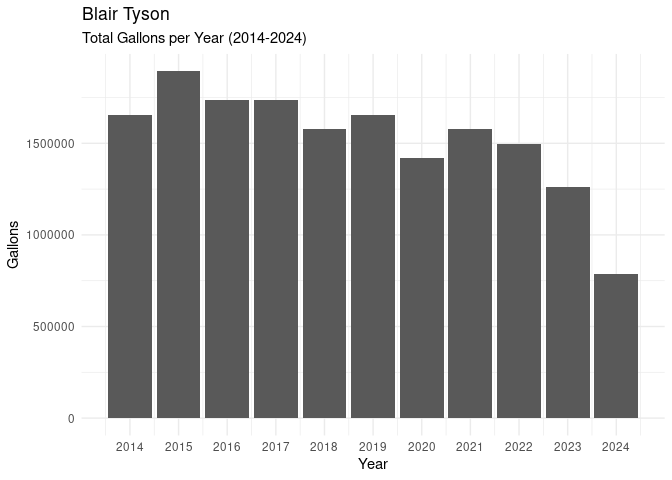
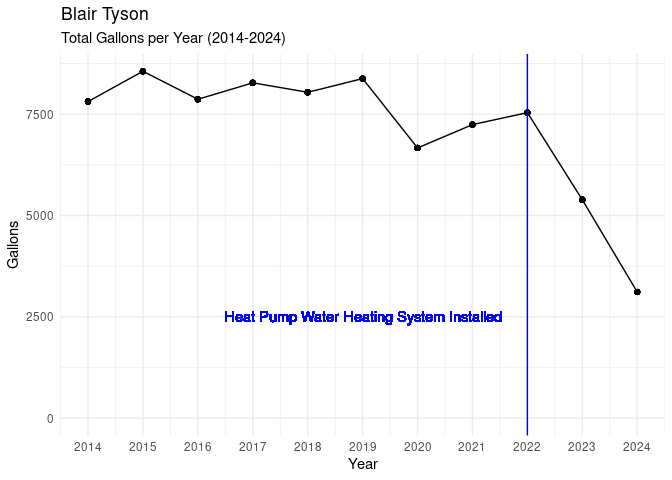
Add label to BT over time plot

diff --git a/memo/memo.md b/memo/memo.md
@@ -245,14 +245,23 @@ fuels |>
 fuels |>
   filter(Building == "Blair Tyson") |>
   group_by(Year) |>
-  ggplot(aes(x = Year, y = sum(Gallons))) +
-  geom_col() +
+  mutate(bt_year_sum = sum(Gallons)) |>
+  ggplot(aes(x = Year, y = bt_year_sum)) +
+  geom_point() +
+  geom_line() +
   theme_minimal() +
   labs(title = "Blair Tyson",
        subtitle = "Total Gallons per Year (2014-2024)",
        y = "Gallons") +
-   scale_x_continuous(breaks = seq(from = 2014, to = 2024, by = 1))
+  scale_x_continuous(breaks = seq(from = 2014, to = 2024, by = 1)) +
+  ylim(0, NA) +
+  geom_vline(xintercept = 2022, color = "blue") +
+  geom_text(aes(x = 2019, y = 2500), label = "Heat Pump Water Heating System Installed", colour = "blue")
 ```
+
+    ## Warning in geom_text(aes(x = 2019, y = 2500), label = "Heat Pump Water Heating System Installed", : All aesthetics have length 1, but the data has 213 rows.
+    ## ℹ Please consider using `annotate()` or provide this layer with data containing
+    ##   a single row.
 
 ![](memo_files/figure-gfm/BT_over_time-1.png)<!-- -->
 
